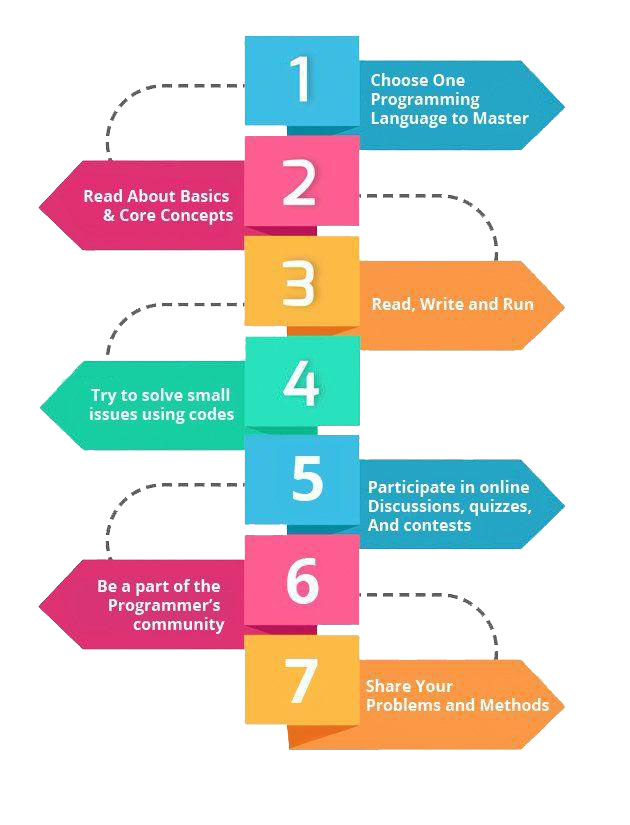
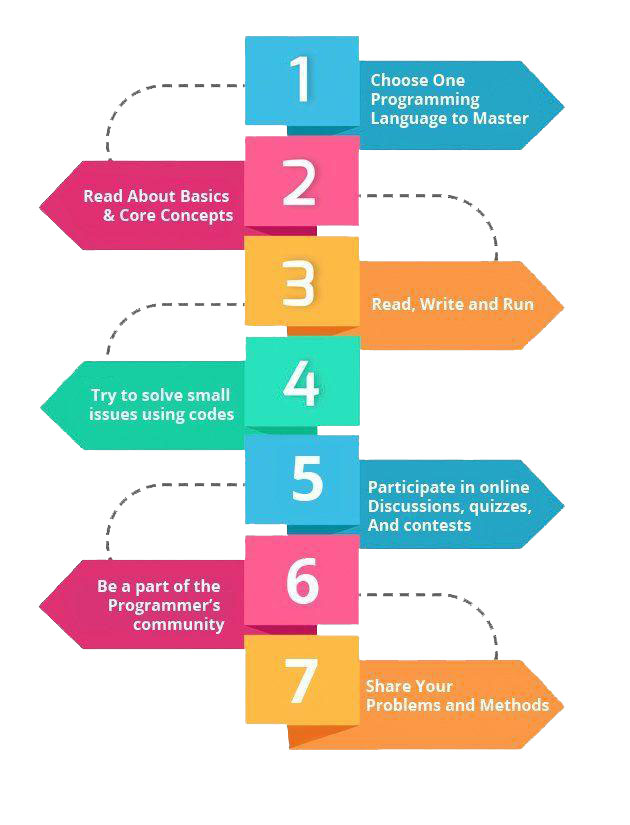
Add files via upload

diff --git a/certifications-achievements.html b/certifications-achievements.html
@@ -1,4 +1,3 @@
-
 <!DOCTYPE html>
 <html lang="en">
 <head>
@@ -283,7 +282,10 @@
             <div class="eyebrow">Skills & Recognition</div>
             <h1>Beyond Grades: <span>Proof of Competency</span></h1>
             <p>At Triple T Academy, we don't just hand out papers. We track every student's journey through a rigorous board of competencies and prepare them for the adrenaline of live tech competitions.</p>
-            
+            <div class="hero-badges">
+                <span class="hero-badge">🎯 Competency Board</span>
+                <span class="hero-badge">🏆 Competitions</span>
+            </div>
         </div>
         <div class="hero-image">
             <img src="https://images.unsplash.com/photo-1517245386807-bb43f82c33c4?auto=format&fit=crop&w=500" alt="Students Working">
@@ -297,7 +299,7 @@
             <h2>A New Kind of Assessment</h2>
         </div>
         <div class="grid-container">
-            <div class="info-card accent">
+            <div class="info-card">
                 <h3>The <span>Competency Board</span></h3>
                 <p>Every student follows a structured roadmap. We assess them based on "Can-Do" statements rather than just test scores. This ensures they master the physical and digital skills needed for the future.</p>
                 <ul class="competency-list">
@@ -353,14 +355,15 @@
                     <li><a href="curriculum.html">Curriculum</a></li>
                     <li><a href="activities.html">Activities</a></li>
                     <li><a href="certifications.html">Certifications</a></li>
+                    <li><a href="workshops.html">Workshops</a></li>
                 </ul>
             </div>
-
             <div class="footer-col">
                 <h4>Company</h4>
                 <ul>
+                    <li><a href="about.html">About Us</a></li>
                     <li><a href="blog.html">Blog</a></li>
-					<li><a href="about.html">About Us</a></li>
+                    <li><a href="careers.html">Careers</a></li>
                     <li><a href="contact.html">Contact</a></li>
                 </ul>
             </div>

diff --git a/index.html b/index.html
@@ -608,14 +608,19 @@ Our academy operates within the school environment, offering structured after-sc
 
             <div id="hidden-content">
                 <strong><center>Our Mission:</strong><br><br>
-                We don’t just teach technology — we guide students through a learning journey:
+              <left>We don’t just teach technology — we guide students through a complete learning journey:<br>
 
-Start with foundational digital skills
-Progress to building real projects (games, websites, simple apps)
-Develop problem-solving and critical thinking
-Prepare for advanced learning, competitions, and future tech paths
+1- Start with foundational digital skills.<br>
 
-Our goal is to help students move from users of technology to creators of technology.ving, and collaboration while actively building and applying technology. At the same time, we support teachers with training and ready-to-use strategies to confidently integrate technology into their classrooms. Our goal is simple: to bring measurable impact to your school by improving student engagement, strengthening digital competencies, and preparing learners for the demands of the modern world.</center>
+2- Progress to building real projects (games, websites, simple apps)<br>
+
+3- Develop problem-solving and critical thinking.<br>
+
+4- Prepare for advanced learning, competitions, and future tech paths.<br>
+
+Our goal is to help students move from users of technology to creators of technology.
+
+At the same time, we support teachers with training and ready-to-use strategies to confidently integrate technology into their classrooms. Our goal is simple: to bring measurable impact to your school by improving student engagement, strengthening digital competencies, and preparing learners for the demands of the modern world.</left>
             </div>
 
             <a id="read-more" class="read-more" onclick="toggleRead()">Explore More +</a>

diff --git a/about.html b/about.html
@@ -562,32 +562,32 @@
 
             <div class="team-card">
                 <div class="member-avatar">👤</div>
-                <h3>Name Here</h3>
-                <h4>Role Here</h4>
+                <h3>Amer El Masri</h3>
+                <h4>Tutor</h4>
                 <p>Your description here.</p>
                 <a href="#" class="social-icon"><iconify-icon icon="entypo-social:linkedin-with-circle" width="1.5em"></iconify-icon></a>
             </div>
 
             <div class="team-card">
                 <div class="member-avatar">👤</div>
-                <h3>Name Here</h3>
-                <h4>Role Here</h4>
+                <h3>Yorgo Chaiban</h3>
+                <h4>Tutor</h4>
                 <p>Your description here.</p>
                 <a href="#" class="social-icon"><iconify-icon icon="entypo-social:linkedin-with-circle" width="1.5em"></iconify-icon></a>
             </div>
 
             <div class="team-card">
                 <div class="member-avatar">👤</div>
-                <h3>Name Here</h3>
-                <h4>Role Here</h4>
+                <h3>Guyelle Antonios</h3>
+                <h4>Graphic Design</h4>
                 <p>Your description here.</p>
                 <a href="#" class="social-icon"><iconify-icon icon="entypo-social:linkedin-with-circle" width="1.5em"></iconify-icon></a>
             </div>
 
             <div class="team-card">
                 <div class="member-avatar">👤</div>
-                <h3>Name Here</h3>
-                <h4>Role Here</h4>
+                <h3>Noel Antonios</h3>
+                <h4>Tutor</h4>
                 <p>Your description here.</p>
                 <a href="#" class="social-icon"><iconify-icon icon="entypo-social:linkedin-with-circle" width="1.5em"></iconify-icon></a>
             </div>
